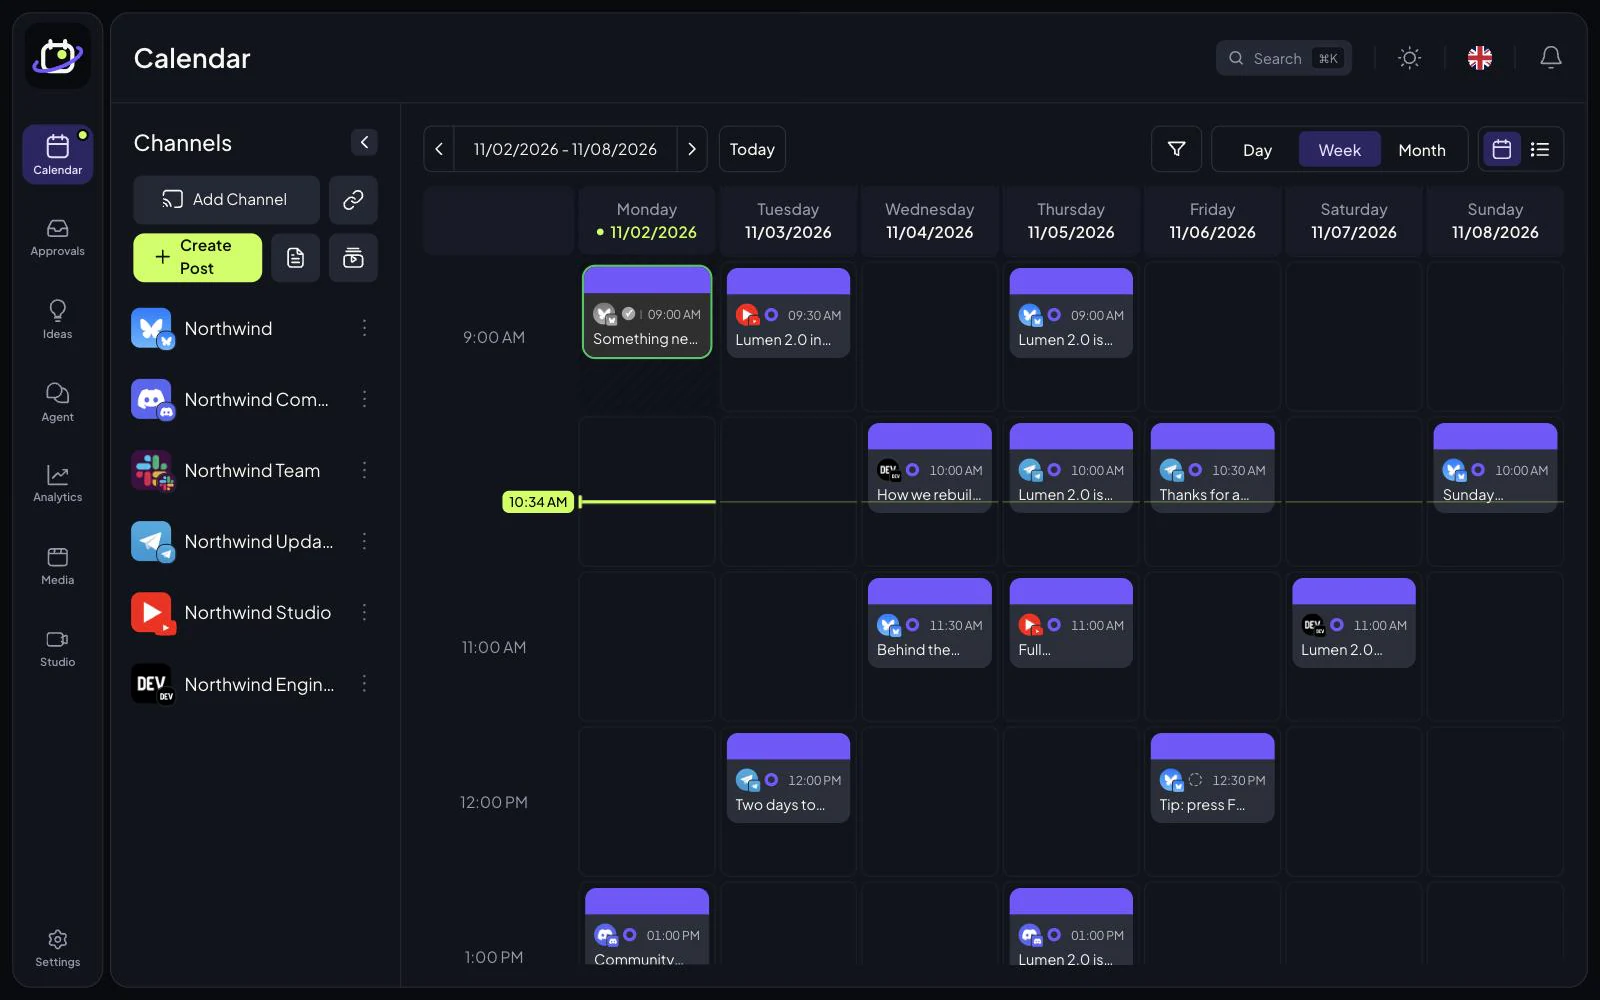
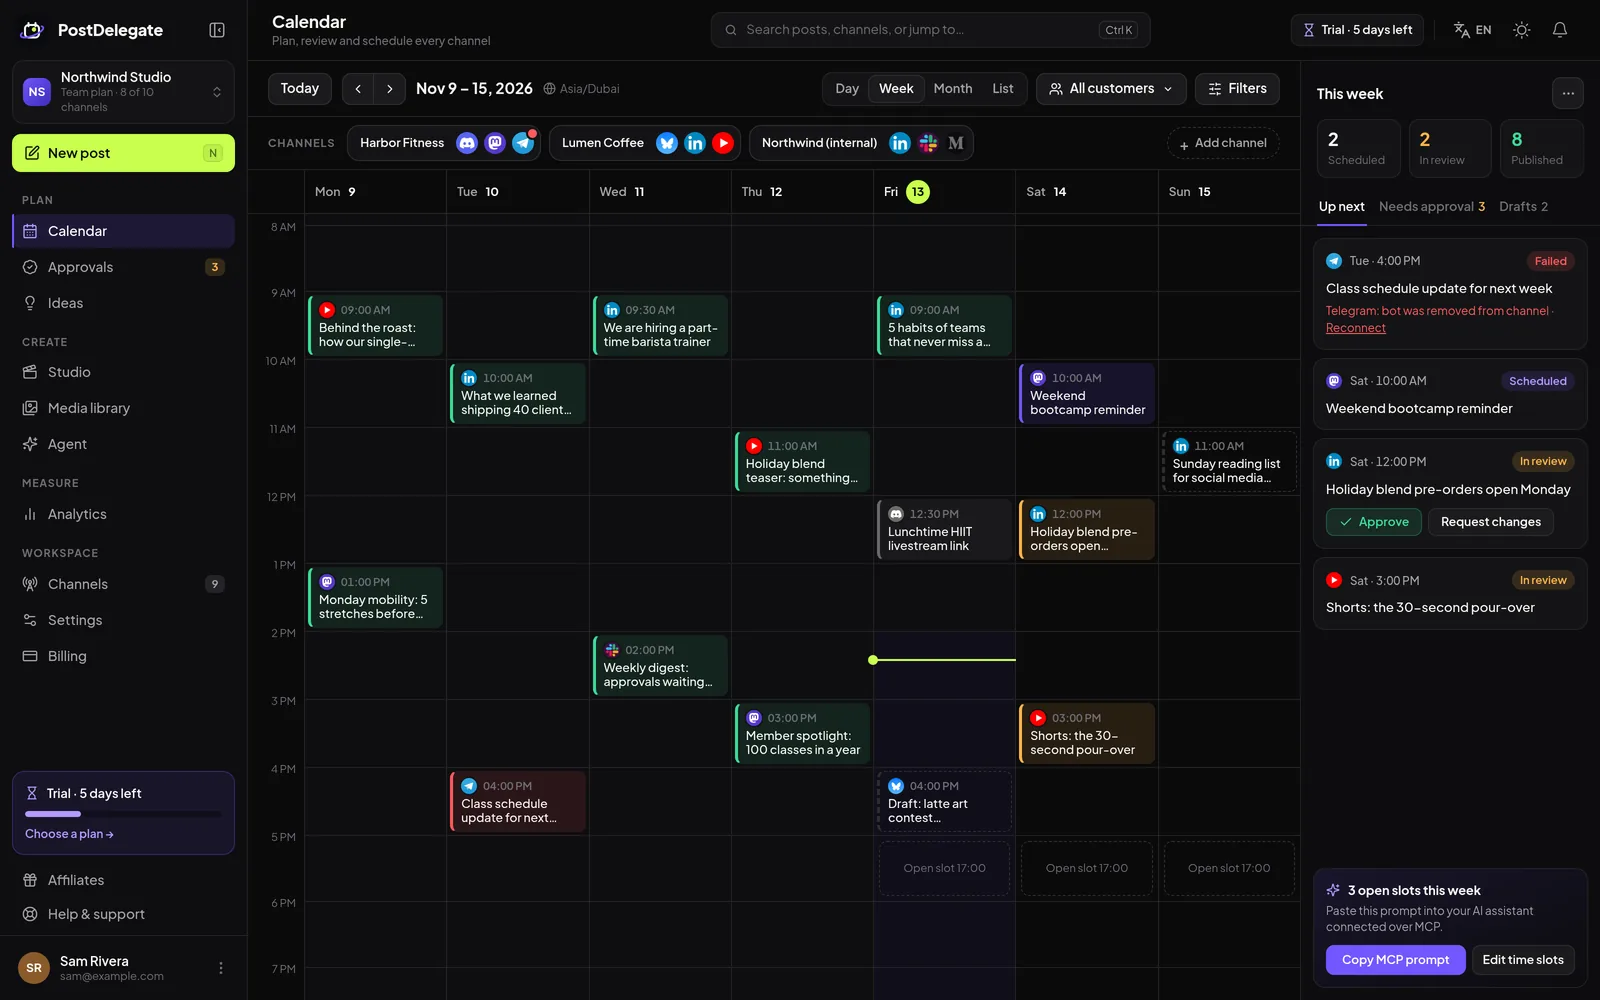
Site: replace app screenshots with the new layout
Swap the three marketing captures of the classic calendar and composer
for layout v2 shots from the local app and mock backend, and update the
alt text that described the old UI. Paths are unchanged.

diff --git a/site/src/i18n/locales/ar.ts b/site/src/i18n/locales/ar.ts
@@ -218,7 +218,7 @@ const dict: Dict = {
       { title: 'Content Studio', text: 'حوّل أي مقطع إلى فيديو عمودي مع ترجمة مكتوبة على الشاشة، جاهز للجدولة.' },
       { title: 'الفيديو المجمّع', text: 'أضف ما يصل إلى 50 فيديو، وسيوزّعها PostDelegate على فترات النشر الخاصة بك.' },
     ],
-    demoAlt: 'تقويم PostDelegate الحالي في عرض الأسبوع: ست قنوات تجريبية في الشريط الجانبي (YouTube وBluesky وDiscord وTelegram وSlack وDEV) وأسبوع من منشورات الإطلاق، معظمها مجدول، وواحد منشور، ومسودتان',
+    demoAlt: 'تقويم PostDelegate في عرض الأسبوع: شريط جانبي بعناوين، وشريط قنوات لثلاث علامات تجارية مثال (Harbor Fitness وLumen Coffee وNorthwind)، وأسبوع من المنشورات المجدولة والمنشورة والمسودات، ولوحة This week مع إجراءات الموافقة',
     aiEyebrow: 'استخدم ذكاءك الاصطناعي الخاص',
     aiTitleA: 'بلا هامش ربح على الذكاء الاصطناعي. استخدم المساعد',
     aiTitleB: 'الذي ',

diff --git a/site/src/i18n/locales/fr.ts b/site/src/i18n/locales/fr.ts
@@ -217,7 +217,7 @@ const dict: Dict = {
       { title: 'Content Studio', text: 'Transformez un clip en vidéo verticale sous-titrée, prête à programmer.' },
       { title: 'Vidéos en masse', text: 'Déposez jusqu’à 50 vidéos et PostDelegate les répartit sur vos créneaux de publication.' },
     ],
-    demoAlt: 'Le calendrier PostDelegate actuel en vue semaine : six canaux de démonstration dans la barre latérale (YouTube, Bluesky, Discord, Telegram, Slack et DEV) et une semaine de publications de lancement, pour la plupart programmées, une publiée et deux brouillons',
+    demoAlt: 'Le calendrier PostDelegate en vue semaine : une barre latérale libellée, une bande de canaux pour trois marques d’exemple (Harbor Fitness, Lumen Coffee et Northwind), une semaine de publications programmées, publiées et en brouillon, et un panneau This week avec des actions d’approbation',
     aiEyebrow: 'Utilisez votre propre IA',
     aiTitleA: 'Aucune marge sur l’IA. Utilisez l’assistant',
     aiTitleB: 'que vous ',

diff --git a/site/src/i18n/locales/de.ts b/site/src/i18n/locales/de.ts
@@ -238,7 +238,7 @@ const dict: Dict = {
       { title: 'Content Studio', text: 'Machen Sie aus einem Clip ein Hochformatvideo mit Untertiteln, bereit zum Planen.' },
       { title: 'Video-Massenplanung', text: 'Laden Sie bis zu 50 Videos hoch, und PostDelegate verteilt sie auf Ihre Zeitfenster.' },
     ],
-    demoAlt: 'Der aktuelle PostDelegate-Kalender in der Wochenansicht: sechs Demo-Kanäle in der Seitenleiste (YouTube, Bluesky, Discord, Telegram, Slack und DEV) und eine Woche mit Launch-Beiträgen, die meisten geplant, einer veröffentlicht und zwei Entwürfe',
+    demoAlt: 'Der PostDelegate-Kalender in der Wochenansicht: eine beschriftete Seitenleiste, eine Kanalleiste für drei Beispielmarken (Harbor Fitness, Lumen Coffee und Northwind), eine Woche mit geplanten, veröffentlichten und Entwurfsbeiträgen und ein Bereich „This week“ mit Freigabeaktionen',
     aiEyebrow: 'Ihre eigene KI',
     aiTitleA: 'Kein KI-Aufschlag. Nutzen Sie den Assistenten,',
     aiTitleB: 'für den Sie schon ',

diff --git a/site/src/i18n/locales/pt.ts b/site/src/i18n/locales/pt.ts
@@ -238,7 +238,7 @@ const dict: Dict = {
       { title: 'Content Studio', text: 'Transforme um clipe em um vídeo vertical com legendas, pronto para agendar.' },
       { title: 'Vídeos em massa', text: 'Envie até 50 vídeos e o PostDelegate os distribui pelos seus horários de publicação.' },
     ],
-    demoAlt: 'O calendário atual do PostDelegate na visualização semanal: seis canais de demonstração na barra lateral (YouTube, Bluesky, Discord, Telegram, Slack e DEV) e uma semana de posts de lançamento, a maioria agendada, um publicado e dois rascunhos',
+    demoAlt: 'O calendário do PostDelegate na visualização semanal: uma barra lateral com rótulos, uma faixa de canais de três marcas de exemplo (Harbor Fitness, Lumen Coffee e Northwind), uma semana de posts agendados, publicados e em rascunho, e um painel This week com ações de aprovação',
     aiEyebrow: 'Traga sua própria IA',
     aiTitleA: 'Sem sobretaxa na IA. Use o assistente',
     aiTitleB: 'que você já ',

diff --git a/site/src/i18n/locales/es.ts b/site/src/i18n/locales/es.ts
@@ -238,7 +238,7 @@ const dict: Dict = {
       { title: 'Content Studio', text: 'Convierte un clip en un video vertical con subtítulos, listo para programar.' },
       { title: 'Videos en lote', text: 'Sube hasta 50 videos y PostDelegate los reparte entre tus horarios de publicación.' },
     ],
-    demoAlt: 'El calendario actual de PostDelegate en vista semanal: seis canales de demostración en la barra lateral (YouTube, Bluesky, Discord, Telegram, Slack y DEV) y una semana de publicaciones de lanzamiento, la mayoría programadas, una publicada y dos borradores',
+    demoAlt: 'El calendario de PostDelegate en vista semanal: una barra lateral con etiquetas, una tira de canales de tres marcas de ejemplo (Harbor Fitness, Lumen Coffee y Northwind), una semana de publicaciones programadas, publicadas y en borrador, y un panel This week con acciones de aprobación',
     aiEyebrow: 'Usa tu propia IA',
     aiTitleA: 'Sin recargo por la IA. Usa el asistente',
     aiTitleB: 'que ya ',

diff --git a/site/src/i18n/locales/it.ts b/site/src/i18n/locales/it.ts
@@ -238,7 +238,7 @@ const dict: Dict = {
       { title: 'Content Studio', text: 'Trasforma una clip in un video verticale con sottotitoli, pronto da programmare.' },
       { title: 'Video in blocco', text: 'Carica fino a 50 video e PostDelegate li distribuisce sulle tue fasce orarie di pubblicazione.' },
     ],
-    demoAlt: 'L’attuale calendario di PostDelegate in vista settimanale: sei canali demo nella barra laterale (YouTube, Bluesky, Discord, Telegram, Slack e DEV) e una settimana di post per un lancio, quasi tutti programmati, uno pubblicato e due bozze',
+    demoAlt: 'Il calendario di PostDelegate in vista settimanale: una barra laterale etichettata, una striscia di canali per tre marchi di esempio (Harbor Fitness, Lumen Coffee e Northwind), una settimana di post programmati, pubblicati e in bozza, e un riquadro This week con azioni di approvazione',
     aiEyebrow: 'Usa la tua IA',
     aiTitleA: 'Nessun ricarico sull’IA. Usa l’assistente',
     aiTitleB: 'che ',

diff --git a/site/src/i18n/locales/en.ts b/site/src/i18n/locales/en.ts
@@ -218,7 +218,7 @@ const en = {
       { title: 'Content Studio', text: 'Turn a clip into a captioned vertical video, ready to schedule.' },
       { title: 'Bulk video', text: 'Drop in up to 50 videos and PostDelegate spreads them across your posting slots.' },
     ] as Card[],
-    demoAlt: 'The current PostDelegate calendar in week view: six demo channels in the sidebar (YouTube, Bluesky, Discord, Telegram, Slack and DEV) and a week of launch posts, mostly scheduled, one published and two drafts',
+    demoAlt: 'The PostDelegate calendar in week view: a labeled sidebar, a channel strip for three example brands (Harbor Fitness, Lumen Coffee and Northwind), a week of scheduled, published and draft posts, and a This week panel with approval actions',
     aiEyebrow: 'Bring your own AI',
     aiTitleA: 'No AI markup. Use the assistant',
     aiTitleB: 'you already ',
